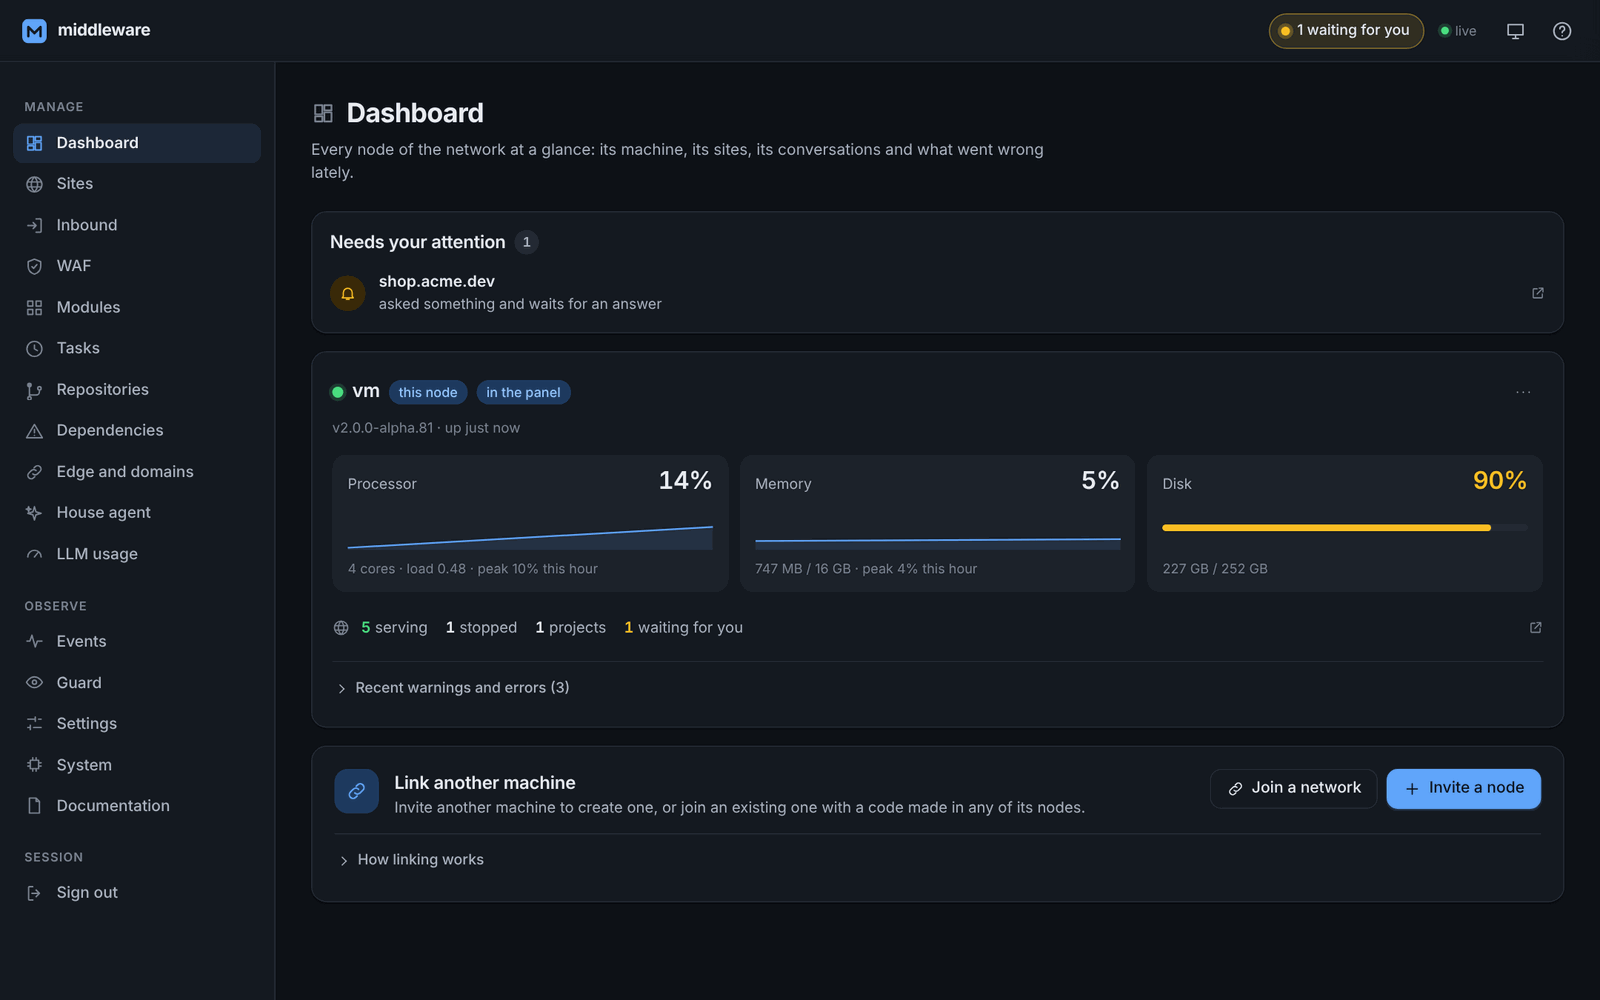
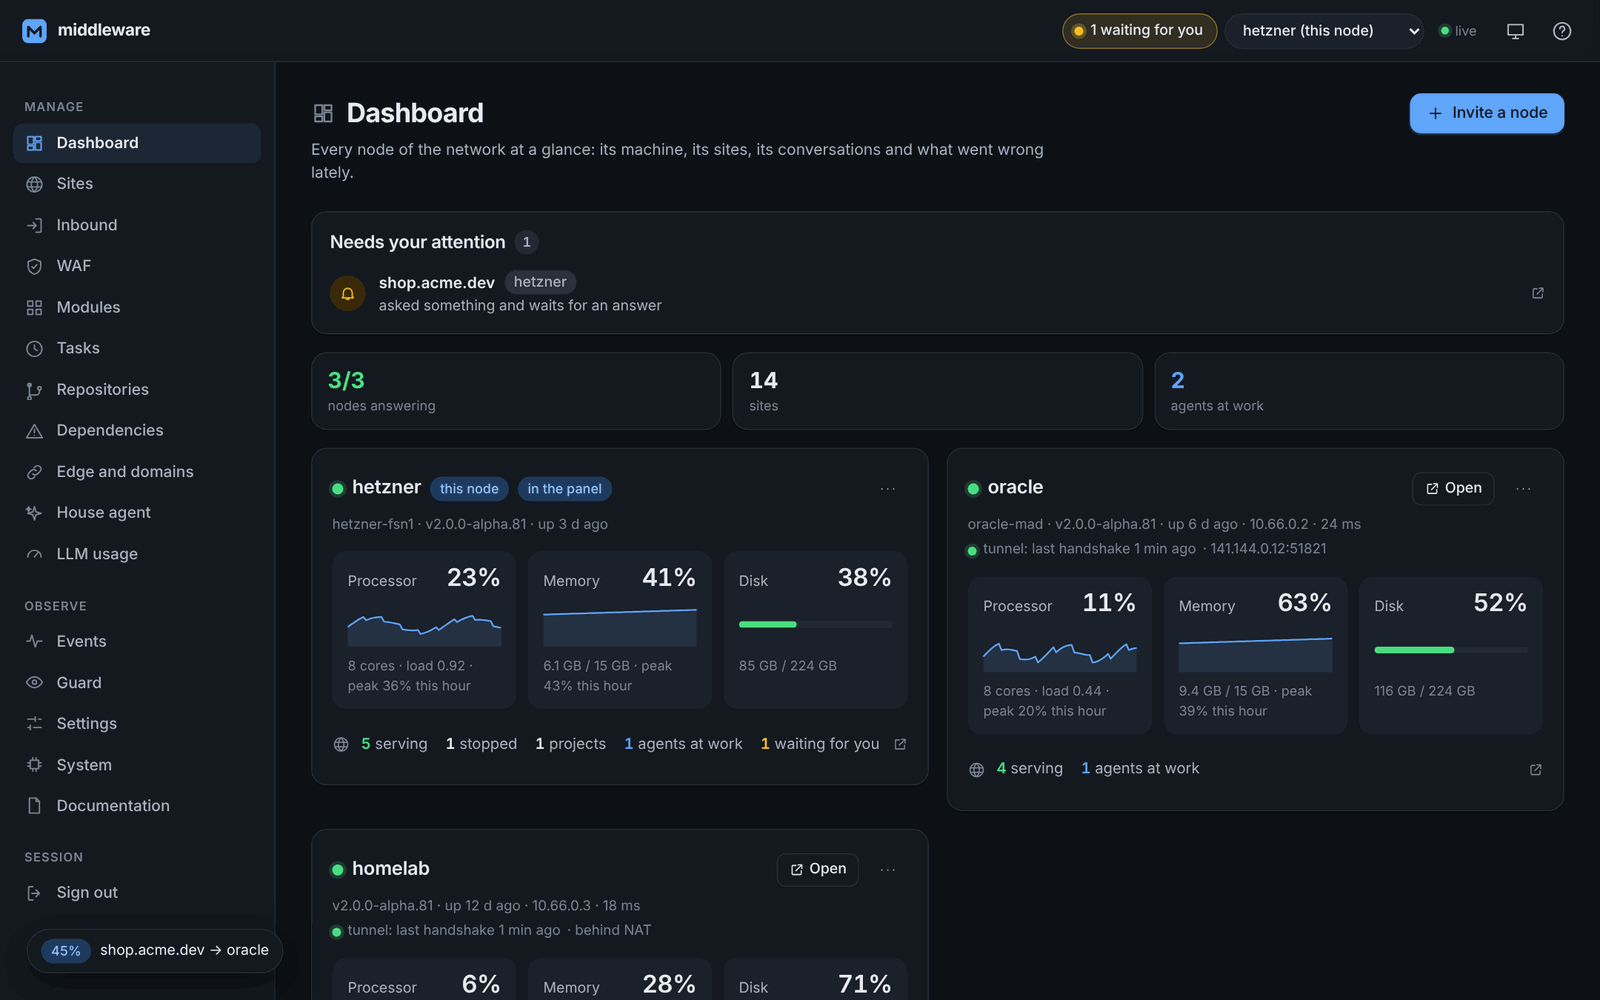
docs: the network of machines gets its own part of the README
The federated network was one paragraph. It now has its own section:
linking a machine with an invitation, the WireGuard mesh with no master
and nodes behind NAT, one panel for every node, moving a site with its
databases (checked, copied while it serves, installed for the target's
architecture, seconds of stop, names repointed, undone on failure), one
VPN for every node, and membership an expelled node cannot undo. The intro
and the audience say it too.

Three pictures of a network of three machines (Hetzner, Oracle and a home
server behind NAT): the dashboard, every node's sites in one list, and a
site moving between them. The panel is real; what the other nodes answer
was given to it, since the demo house is alone.

Claude-Session: https://claude.ai/code/session_01Wm4KBhAyZ1JjrZmwQVnAao

diff --git a/README.md b/README.md
@@ -7,7 +7,8 @@ built, run and published. Each site has its own AI coding agent that works
 inside its folder. When the site is ready, one button gives it a public name,
 a certificate and a deploy that drops no request. It is one binary with no
 third-party dependencies, MIT licensed, and it runs on any VPS you already
-pay for.
+pay for, or on several of them linked into one network you manage from a
+single panel.
 
 ![A site's conversation: the agent added a newsletter signup, ran the tests and restarted the site without dropping a request](docs/images/chat.png)
 
@@ -17,9 +18,10 @@ pay for.
   OpenCode for features. middleware gives each project an agent that lives
   next to it on the server, can run it, test it and restart it, and cannot
   touch anything else.
-- **Freelancers and small agencies.** Dozens of client sites on one or two
-  machines, each in its own folder, with its own domain, logs, tasks and
-  conversation. You stay on hardware you control, with no per-site bill.
+- **Freelancers and small agencies.** Dozens of client sites spread over a
+  few machines at different providers, each site in its own folder, with its
+  own domain, logs, tasks and conversation, all in one panel. You stay on
+  hardware you control, with no per-site bill.
 - **Solo founders and small teams.** You get the "push and it is live"
   workflow of a hosting platform without renting one: deploy from GitHub or
   from a conversation, roll back by writing a file, watch everything from
@@ -123,15 +125,46 @@ specs. New sites start with OpenSpec set up.
   Credentials are encrypted at rest, and updates roll themselves back if the
   new version does not come up.
 
-### Grow past one machine
+### A network of your own machines
 
-Outgrown one server? Link another in under two minutes: make a code in the
-panel and paste it on the other machine. They form an encrypted WireGuard
-network, and one panel sees and manages them all. A site moves from one
-machine to another with its databases, a stop of seconds, and its DNS
-following on its own.
+One server is where most people start; middleware does not make it where
+you stay. Machines link into a **federated network**: a VPS at one
+provider, another at a second provider, a server at home behind your
+router. Each one is a full middleware that keeps serving on its own, and
+together they are managed as one.
 
-![The dashboard: what needs your attention first, then each machine's processor, memory and disk](docs/images/dashboard.png)
+- **Link a machine in under two minutes.** Make an invitation in the panel,
+  paste it on the new machine (`middleware setup --join <code>`), and it is
+  in. Joining one node is joining all of them.
+- **No master, nothing to babysit.** The nodes form an encrypted WireGuard
+  mesh where every node is a peer of every other. If one goes down, the rest
+  carry on, and a node behind NAT works by calling out. Only traffic between
+  nodes goes through the tunnel; each machine's own traffic is untouched.
+- **One panel for all of them.** Pick a node in the top bar and every screen,
+  conversation, build and agent works on that machine. The dashboard shows
+  every node at once, with what needs your attention first. The sites list
+  shows each machine's sites, and the bar tells you which conversation is
+  waiting for you on any of them.
+- **Move a site to another machine** with one button. middleware asks the
+  target whether it can take the site, copies it while it keeps serving, and
+  installs its dependencies for that machine (even from x86 to ARM). It then
+  stops the site for seconds for the last copy, brings its databases along,
+  starts it there and points its names at the new place. The copy that stays
+  behind is archived. If anything fails on the way, the site starts again
+  where it was, and a move cut by a restart is put right when the machine
+  comes back.
+- **One VPN for the whole network.** A device on any node's VPN reaches
+  every node. One switch closes every panel of the network to the internet
+  at once.
+- **Membership you can trust.** An expelled node stays out: it cannot vote
+  itself back in, take another node's address, or rewrite the others'
+  entries.
+
+![The dashboard of a network of three machines: what needs your attention first, then each node's processor, memory, disk and sites](docs/images/dashboard.png)
+
+![The sites list with every machine's sites, this node's first](docs/images/network-sites.png)
+
+![A site moving to another machine: each step with its state and how long it took](docs/images/move.png)
 
 ### Everywhere you are
 
